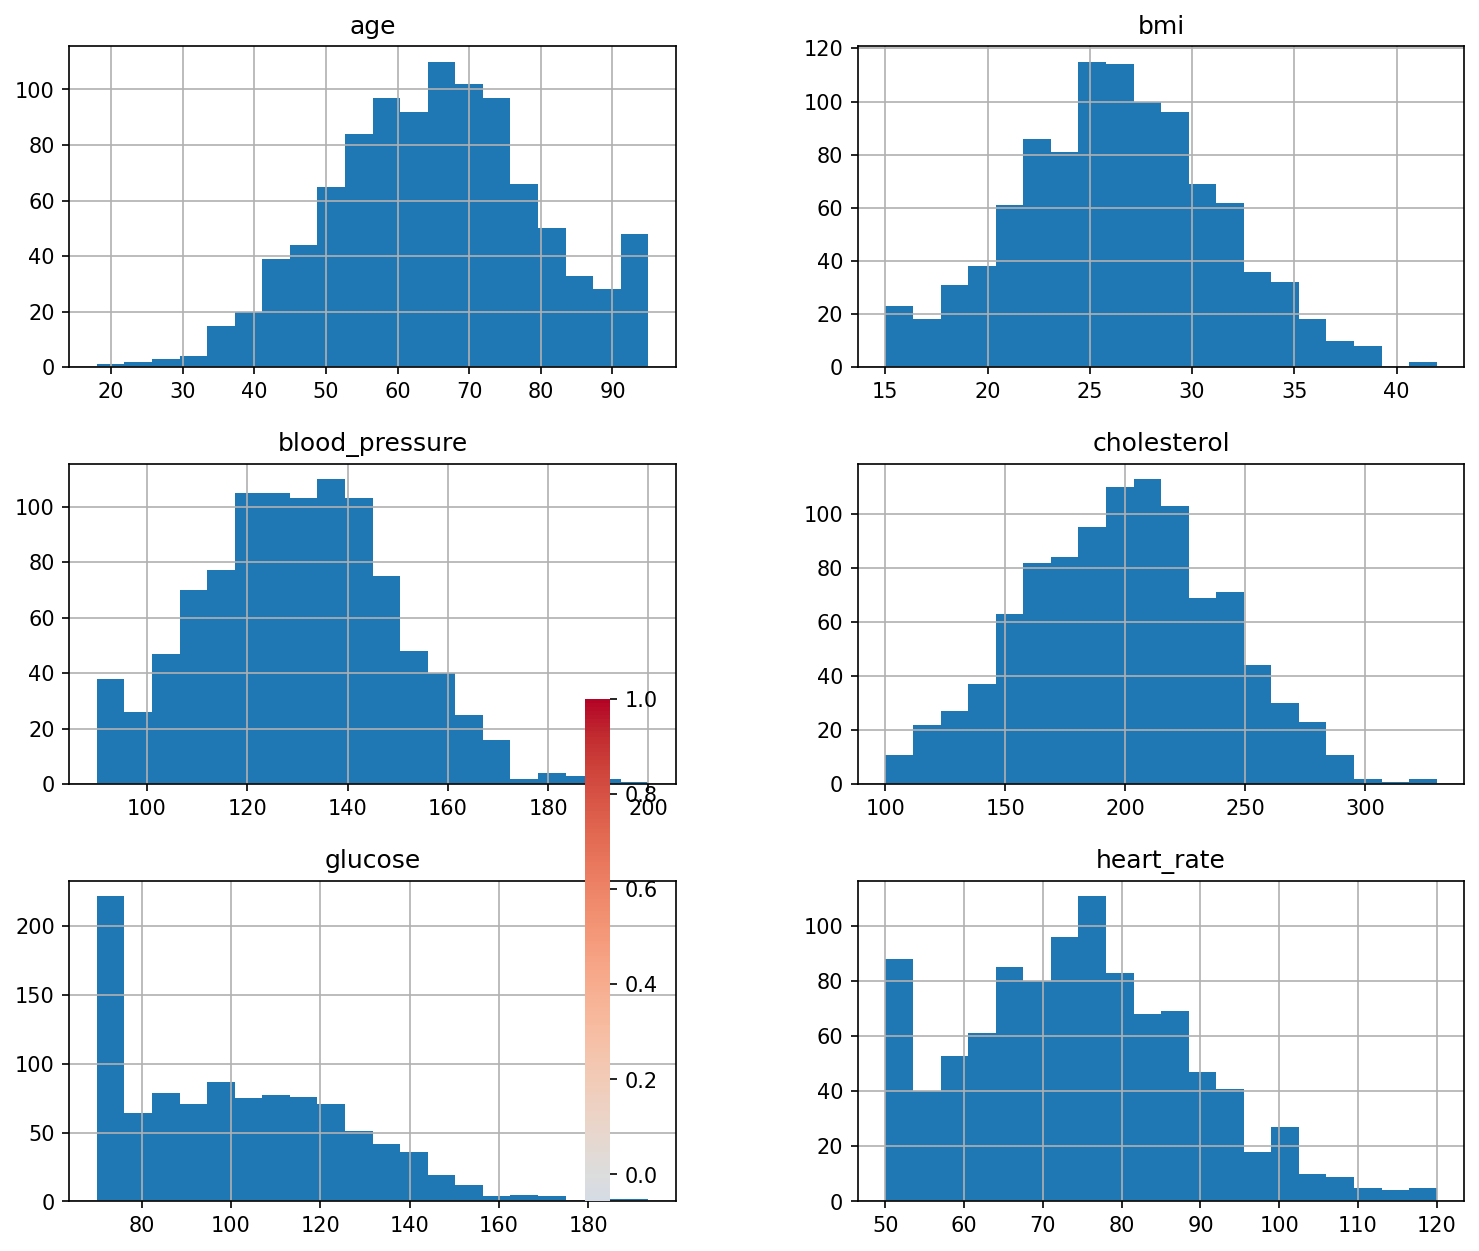
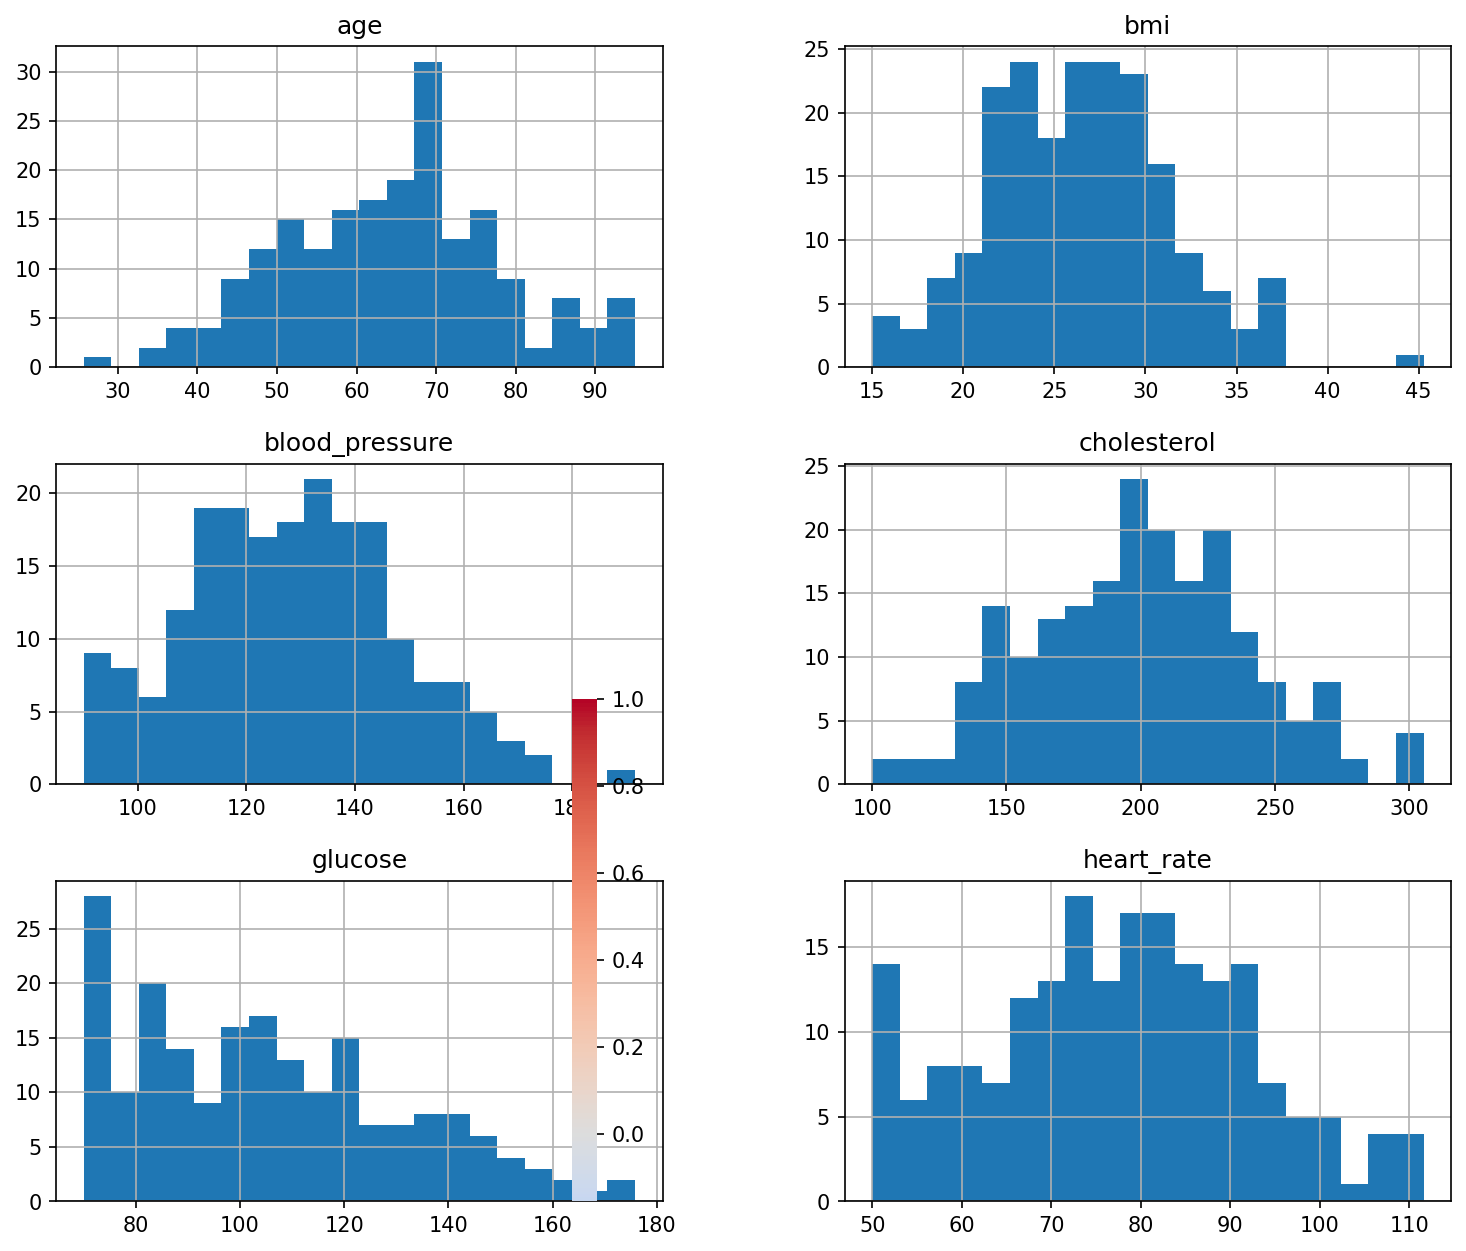
Add Phase 8 demo script and finalize implementation

diff --git a/demo_phase8_visualization.py b/demo_phase8_visualization.py
@@ -1,0 +1,100 @@
+#!/usr/bin/env python3
+"""
+Demo script for Phase 8: Model Visualization & Interpretability
+
+This demo showcases the Phase 8 debugging capabilities for model interpretability.
+"""
+
+import sys
+from pathlib import Path
+
+# Add parent directory to path
+sys.path.append(str(Path(__file__).parent))
+
+from debug.phase8_model_visualization import Phase8ModelVisualization
+
+
+def main():
+    """Run Phase 8 demo with synthetic medical data"""
+    
+    print("=" * 80)
+    print("Phase 8 Demo: Model Visualization & Interpretability")
+    print("=" * 80)
+    print()
+    print("This demo will:")
+    print("  1. Generate synthetic medical data (1000 samples)")
+    print("  2. Train 3 tree-based models (DecisionTree, RandomForest, GradientBoosting)")
+    print("  3. Generate feature importance plots")
+    print("  4. Create partial dependence plots for top features")
+    print("  5. Display enhanced confusion matrices with metrics")
+    print()
+    print("Starting Phase 8 analysis...")
+    print()
+    
+    # Create visualizer
+    visualizer = Phase8ModelVisualization(verbose=True, data_source='synthetic')
+    
+    # Run Phase 8
+    try:
+        results = visualizer.run_phase_8()
+        
+        print()
+        print("=" * 80)
+        print("Demo Complete!")
+        print("=" * 80)
+        print()
+        print("📊 Summary:")
+        print(f"  • Models analyzed: {len(results['models_analyzed'])}")
+        print(f"  • Feature importance plots: {len(results['feature_importance']['feature_importance_plots'])}")
+        print(f"  • Partial dependence plots: {len(results['partial_dependence']['pdp_plots_generated'])}")
+        print(f"  • Confusion matrices: {len(results['confusion_matrices']['models_analyzed']) * 2}")
+        print()
+        print("📁 Output locations:")
+        print(f"  • Results JSON: {visualizer.output_dir / 'phase8_results.json'}")
+        print(f"  • Visualizations: {visualizer.visualization_dir}")
+        print()
+        print("🔍 Key insights:")
+        
+        # Show feature importance across models
+        fi_results = results['feature_importance']
+        if fi_results.get('top_features_by_model'):
+            all_features = {}
+            for model, features_list in fi_results['top_features_by_model'].items():
+                for feat_info in features_list[:3]:  # Top 3 from each model
+                    feat_name = feat_info['feature']
+                    if feat_name not in all_features:
+                        all_features[feat_name] = {'models': [], 'avg_importance': 0, 'count': 0}
+                    all_features[feat_name]['models'].append(model)
+                    all_features[feat_name]['avg_importance'] += feat_info['importance']
+                    all_features[feat_name]['count'] += 1
+            
+            # Calculate average importance
+            for feat in all_features:
+                all_features[feat]['avg_importance'] /= all_features[feat]['count']
+            
+            # Sort by average importance
+            sorted_features = sorted(all_features.items(), key=lambda x: -x[1]['avg_importance'])
+            
+            print()
+            print("  Top 3 most important features (averaged across models):")
+            for i, (feat, info) in enumerate(sorted_features[:3], 1):
+                models_str = ', '.join(info['models'])
+                print(f"    {i}. {feat}: {info['avg_importance']:.4f} ({models_str})")
+        
+        print()
+        print("✅ Phase 8 demo completed successfully!")
+        print()
+        print("💡 Tip: View the generated plots in the debug/visualizations/ directory")
+        print("    to gain insights into your model's behavior and predictions.")
+        
+        return 0
+        
+    except Exception as e:
+        print(f"\n❌ Demo failed: {e}")
+        import traceback
+        traceback.print_exc()
+        return 1
+
+
+if __name__ == "__main__":
+    sys.exit(main())
